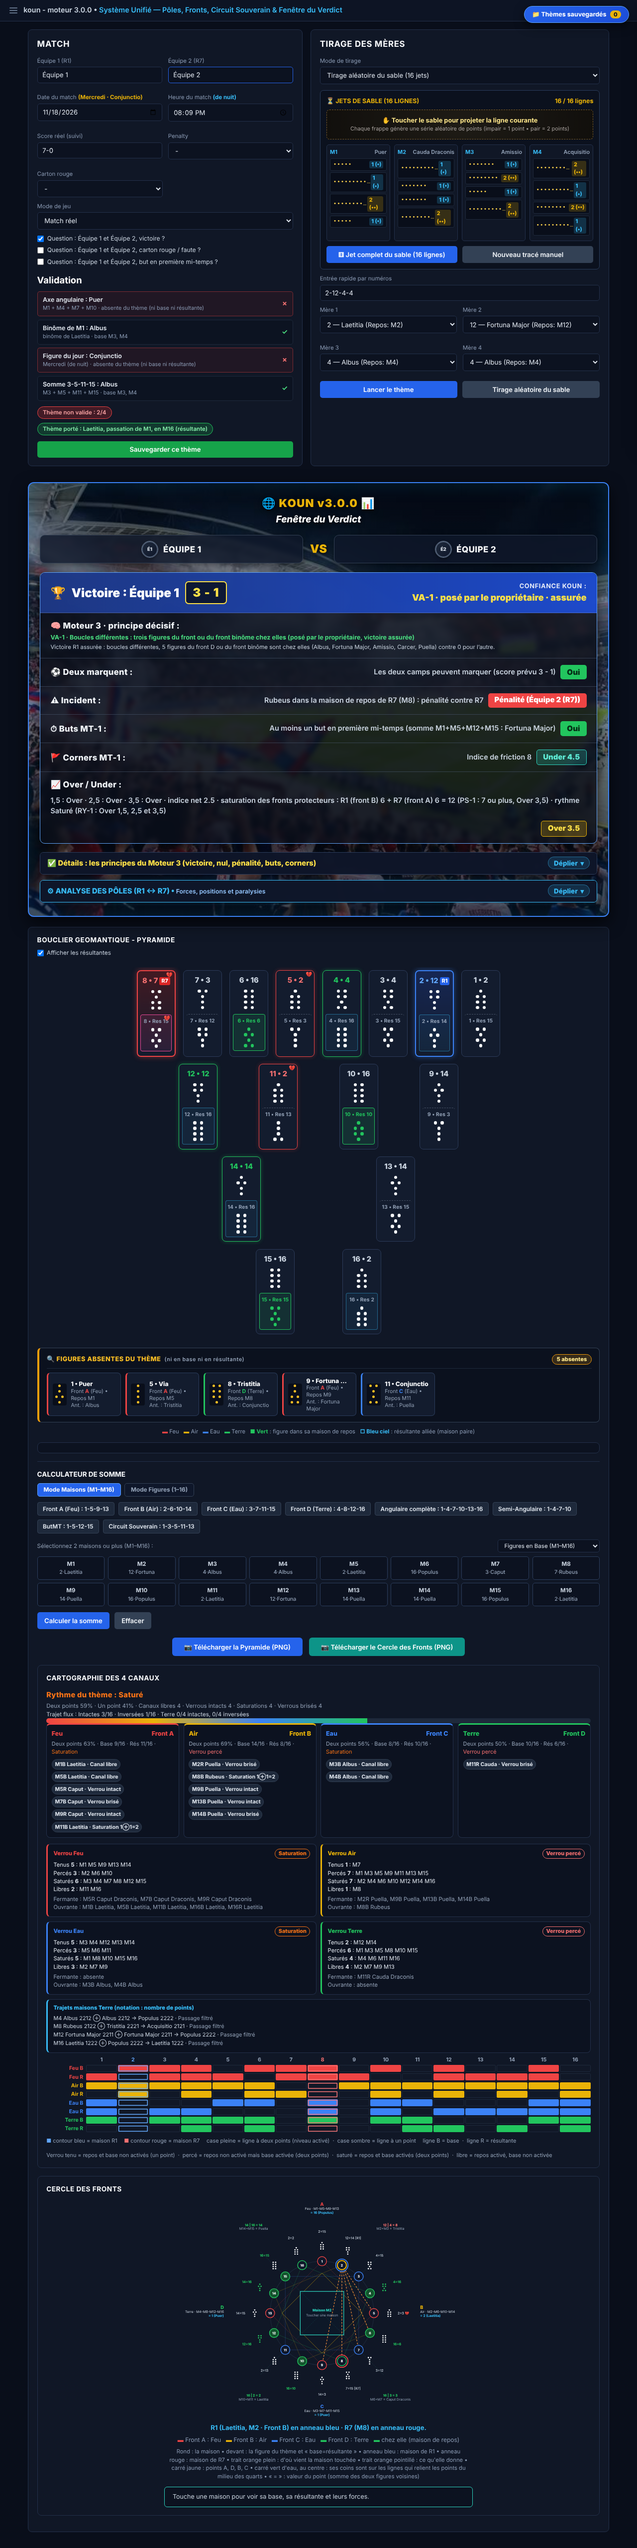
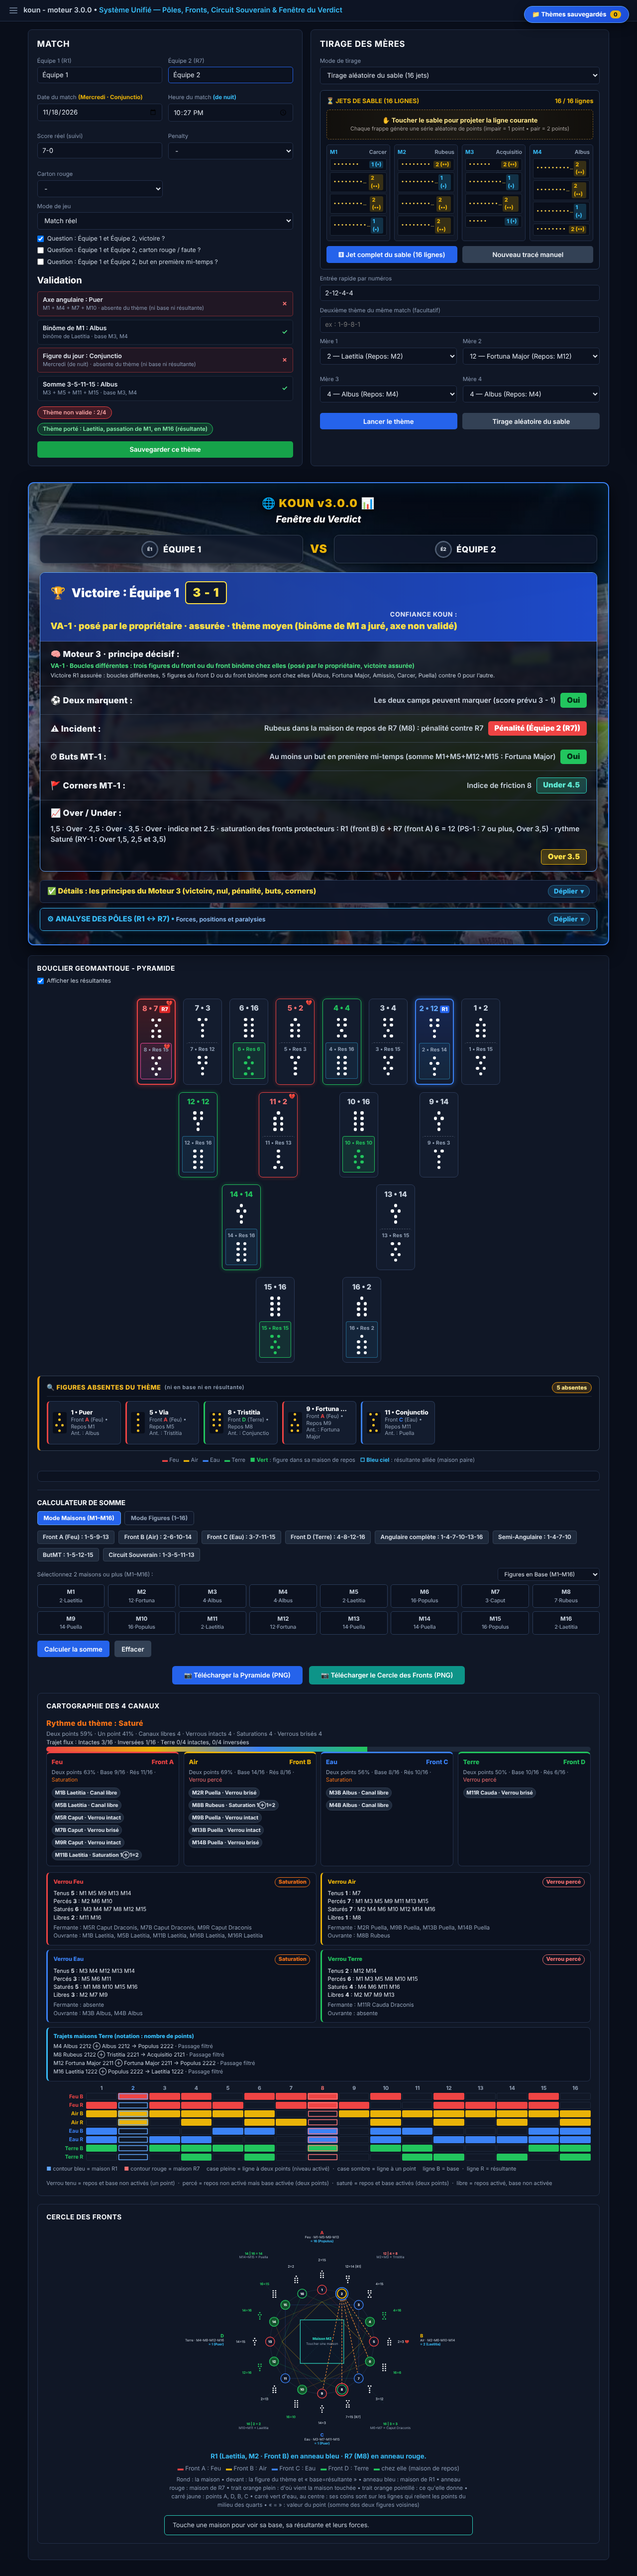
Doc : ligne obsolète sur FC-1 mise à jour (FC-2)
Claude-Session: https://claude.ai/code/session_01A8QESrv9EyjF1Fb7AMxeyN

diff --git a/koun-1/moteur3/PRINCIPES.md b/koun-1/moteur3/PRINCIPES.md
@@ -49,7 +49,7 @@ Indice net = flux (circuit 1-3-5-11-13 (M1 ajoutée par le propriétaire) et M10
 Les 26 scores sont élevés (18 matchs sur 26 au-dessus de 3,5) : les seuils du propriétaire sont trop bas pour ces données. Je n'ai pas ajusté les seuils sur ces 26 scores, faute de lot de validation.
 
 ## Ce que cette reconstruction n'est pas
-- Les principes de victoire reconstruits ne sont pas prouvés : ils sont réunis et classés par provenance et par résultats réels. Le dernier principe (FC-1) est le plus faible et décide encore 9 des 14 thèmes du lot 1.
+- Les principes de victoire reconstruits ne sont pas prouvés : ils sont réunis et classés par provenance et par résultats réels. Le dernier principe (FC-2) a été retenu après plusieurs variantes essayées sur les mêmes thèmes : il décide 7 des 14 thèmes du lot 1 et attend un lot neuf.
 - Les sorties de buts, de corners et de pénalité reprennent vos règles du 3.0.0 : elles ne sont pas validées, sauf là où les mesures sont données ci-dessus.
 
 ## Dans la page koun-moteur-3.0.0.html
